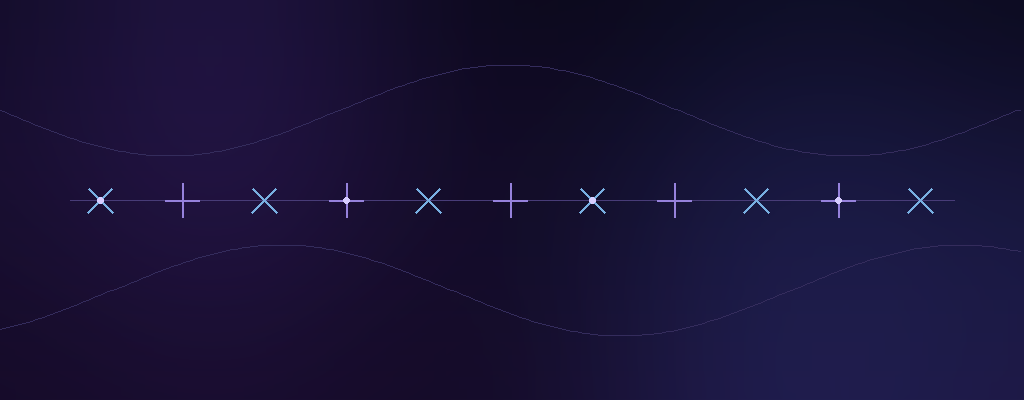
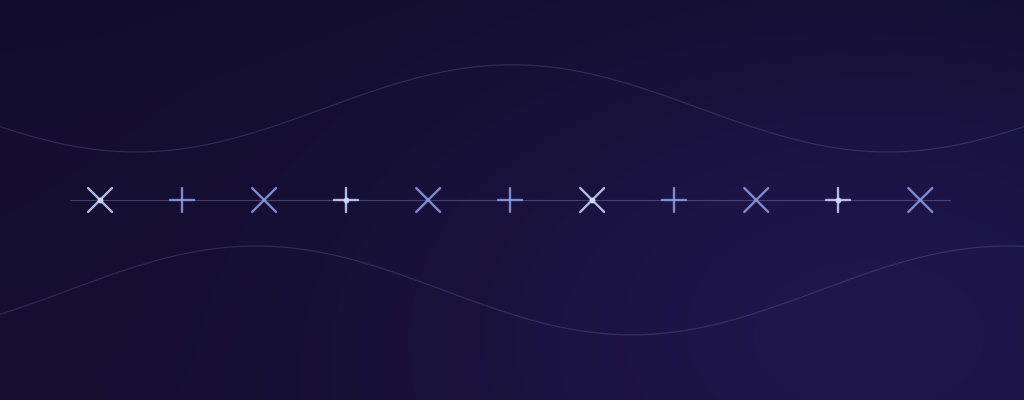
feat: Recover the three backgrounds that had no script

diff --git a/scripts/backgrounds/bb84.py b/scripts/backgrounds/bb84.py
@@ -1,0 +1,85 @@
+"""BB84: the two measurement bases, and where they agree.
+
+A photon is prepared and measured in one of two bases, drawn here as the diagonal
+and the rectilinear. The row alternates between them; a filled centre marks a
+position where the two sides chose the same basis, which is the only case whose
+bit survives into the sifted key.
+
+The two waves are the carrier, out of phase with each other, and carry no
+measurement. This is a redraw of an image made before this directory existed, so
+it differs from the committed one in small ways.
+"""
+
+from __future__ import annotations
+
+import numpy as np
+
+from palette import DPI, HEIGHT, WIDTH, canvas, ground  # noqa: F401
+
+SYMBOLS = 11
+FIRST, STEP = 0.0977, 0.0801        # centres, matching the committed image
+AXIS = 0.5
+AXIS_FROM, AXIS_TO = 0.068, 0.928
+
+# A basis agrees with the other side every third position.
+AGREES = 3
+
+ARM = 0.0117                        # half a symbol's width, in figure units
+ASPECT = WIDTH / HEIGHT             # so a diagonal arm is drawn at 45 degrees
+
+LINE = "#8fa0e8"
+BRIGHT = "#cdd6ff"
+CARRIER = "#b9c4f0"
+
+
+def diagonal(axes, x: float, colour: str) -> None:
+    dy = ARM * ASPECT
+    for sign in (1, -1):
+        axes.plot([x - ARM, x + ARM], [AXIS - sign * dy, AXIS + sign * dy],
+                  color=colour, lw=1.7, alpha=0.85, solid_capstyle="round", zorder=4)
+
+
+def rectilinear(axes, x: float, colour: str) -> None:
+    dy = ARM * ASPECT
+    axes.plot([x - ARM, x + ARM], [AXIS, AXIS], color=colour, lw=1.7, alpha=0.85,
+              solid_capstyle="round", zorder=4)
+    axes.plot([x, x], [AXIS - dy, AXIS + dy], color=colour, lw=1.7, alpha=0.85,
+              solid_capstyle="round", zorder=4)
+
+
+PERIOD = 0.734
+
+
+def carrier(axes, centre: float, amplitude: float, crest: float) -> None:
+    """One wave, at its highest where `crest` says."""
+    x = np.linspace(0, 1, 400)
+    y = centre + amplitude * np.cos(2 * np.pi * (x - crest) / PERIOD)
+    axes.plot(x, y, color=CARRIER, lw=0.9, alpha=0.16, zorder=1)
+
+
+def main() -> None:
+    background = ground("#150e30", "#100c28", "#2a1f6b", at=(0.88, 0.78), strength=0.30)
+    figure, axes, target = canvas(background, "bb84-bg")
+
+    # Centre, amplitude and crest read off the image this redraws: the upper wave
+    # is highest at the middle, the lower one a quarter of the way in.
+    carrier(axes, 0.729, 0.109, crest=0.500)
+    carrier(axes, 0.274, 0.111, crest=0.250)
+
+    axes.plot([AXIS_FROM, AXIS_TO], [AXIS, AXIS], color=LINE, lw=0.8, alpha=0.35,
+              zorder=2)
+
+    for index in range(SYMBOLS):
+        x = FIRST + index * STEP
+        agrees = index % AGREES == 0
+        colour = BRIGHT if agrees else LINE
+        (diagonal if index % 2 == 0 else rectilinear)(axes, x, colour)
+        if agrees:
+            axes.plot(x, AXIS, "o", ms=3.2, color=BRIGHT, alpha=0.95, zorder=5)
+
+    figure.savefig(target, dpi=DPI, facecolor="#150e30")
+    print(target)
+
+
+if __name__ == "__main__":
+    main()

diff --git a/scripts/backgrounds/nlp_irony.py b/scripts/backgrounds/nlp_irony.py
@@ -1,0 +1,72 @@
+"""NLP irony head: how far apart the two classes' scores are.
+
+Two cumulative distributions of the ironic probability, one per true class. The
+upper curve is the non-ironic tweets, which the head sends to low scores early;
+the lower one is the ironic tweets, which it spreads across the range. The gap
+between them at a given score is the separation any threshold has to work with,
+and the dashed rule is where the operating point cuts.
+
+The curves are traced from the image this redraws rather than recomputed. The
+served graph on the official test split produces the same two shapes but not the
+same numbers, so the figure is a recovery of the picture and not of the run.
+"""
+
+from __future__ import annotations
+
+import numpy as np
+
+from palette import DPI, HEIGHT, WIDTH, canvas, ground
+
+LEFT, RIGHT = 85 / WIDTH, 930 / WIDTH
+BASE = 1 - 332 / HEIGHT
+TOP = 1 - 58 / HEIGHT
+CUT = 0.847                      # where the operating point falls, as a fraction
+
+# (position across, cumulative fraction), read off the committed image.
+NON_IRONIC = [(0.000, 0.007), (0.183, 0.434), (0.254, 0.679), (0.373, 0.810),
+              (0.491, 0.945), (0.728, 0.982), (1.000, 1.000)]
+IRONIC = [(0.000, 0.007), (0.254, 0.084), (0.373, 0.172), (0.491, 0.387),
+          (0.609, 0.591), (0.728, 0.810), (0.846, 0.938), (1.000, 0.993)]
+
+EARLY = "#2d877d"
+LATE = "#804f59"
+RULE = "#93a3a7"
+AXIS = "#3d5a61"
+
+
+def smooth(anchors: list[tuple[float, float]]) -> tuple[np.ndarray, np.ndarray]:
+    """A curve through the anchors, rounded so the joins do not read as corners."""
+    grid = np.linspace(0, 1, 600)
+    raw = np.interp(grid, [a for a, _ in anchors], [b for _, b in anchors])
+    window = np.hanning(61)
+    window /= window.sum()
+    padded = np.pad(raw, 30, mode="edge")
+    return grid, np.convolve(padded, window, mode="valid")
+
+
+def draw(axes, anchors: list[tuple[float, float]], colour: str) -> None:
+    across, fraction = smooth(anchors)
+    axes.plot(
+        LEFT + (RIGHT - LEFT) * across,
+        BASE + (TOP - BASE) * fraction,
+        color=colour, lw=2.4, alpha=0.95, solid_capstyle="round", zorder=3,
+    )
+
+
+def main() -> None:
+    background = ground("#0d2b31", "#0a1820", "#12525c", at=(0.22, 0.88), strength=0.20)
+    figure, axes, target = canvas(background, "nlp-irony-bg")
+
+    axes.plot([LEFT, RIGHT], [BASE, BASE], color=AXIS, lw=1.0, alpha=0.75, zorder=2)
+    axes.plot([LEFT, RIGHT], [BASE + (TOP - BASE) * CUT] * 2, color=RULE, lw=1.6,
+              alpha=0.90, linestyle=(0, (6, 5)), zorder=4)
+
+    draw(axes, IRONIC, LATE)
+    draw(axes, NON_IRONIC, EARLY)
+
+    figure.savefig(target, dpi=DPI, facecolor="#0d2b31")
+    print(target)
+
+
+if __name__ == "__main__":
+    main()

diff --git a/scripts/backgrounds/credit_risk.py b/scripts/backgrounds/credit_risk.py
@@ -1,0 +1,70 @@
+"""Credit Risk: the distribution of scores, cut at the operating point.
+
+One histogram of predicted default probability, coloured by the side of the
+decision threshold each bar falls on: approved to the left, rejected to the right.
+The threshold is the one the cost sweep chose rather than the 0.5 default, which
+is why the cut sits left of the mode's tail rather than in the middle.
+
+The heights are read off the image this redraws, not recomputed. The run that
+produced them is gone, and the current artifact's distribution over this dataset
+does not reproduce them: the closest subset, the applicants who did not default,
+correlates at 0.87. Holding the numbers here and saying so is the honest form of a
+redraw.
+"""
+
+from __future__ import annotations
+
+import numpy as np
+from matplotlib.patches import Rectangle
+
+from palette import DPI, HEIGHT, WIDTH, canvas, ground
+
+# Bar heights as a fraction of the tallest, measured off the committed image.
+HEIGHTS = [0.471, 0.764, 0.977, 1.000, 0.810, 0.534, 0.293, 0.155, 0.109,
+           0.115, 0.149, 0.184, 0.207, 0.218, 0.213, 0.190, 0.155, 0.121,
+           0.080, 0.052, 0.029, 0.017]
+APPROVED = 9                      # bars left of the threshold
+
+FIRST, PITCH = 111 / WIDTH, 38.2 / WIDTH
+BAR = 27 / WIDTH
+BASE = 1 - 318 / HEIGHT
+TALLEST = 174 / HEIGHT            # the tallest bar, in figure units
+CUT = 444 / WIDTH
+
+# This image predates the shared accents and keeps the teal and rose it was drawn
+# with; recolouring it would change the thing being recovered.
+LEFT = "#1a504b"
+RIGHT = "#4c3338"
+RULE = "#dfe8ea"
+CARRIER = "#a8ccd0"
+
+
+def main() -> None:
+    background = ground("#0d2b31", "#0a1820", "#12525c", at=(0.22, 0.88), strength=0.20)
+    figure, axes, target = canvas(background, "credit-risk-bg")
+
+    x = np.linspace(0, 1, 400)
+    # Centre, amplitude, crest and period read off the image this redraws.
+    wave = 1 - (91 - 25 * np.cos(2 * np.pi * (x - 0.598) / 0.797)) / HEIGHT
+    axes.plot(x, wave, color=CARRIER, lw=0.9, alpha=0.22, zorder=1)
+
+    axes.plot([80 / WIDTH, 940 / WIDTH], [BASE, BASE], color=RULE, lw=0.9,
+              alpha=0.35, zorder=2)
+
+    for index, height in enumerate(HEIGHTS):
+        centre = FIRST + index * PITCH
+        axes.add_patch(Rectangle(
+            (centre - BAR / 2, BASE), BAR, height * TALLEST,
+            facecolor=LEFT if index < APPROVED else RIGHT,
+            edgecolor="none", zorder=3,
+        ))
+
+    axes.plot([CUT, CUT], [BASE, BASE + 0.56], color=RULE, lw=1.4, alpha=0.85,
+              linestyle=(0, (5, 4)), zorder=4)
+
+    figure.savefig(target, dpi=DPI, facecolor="#0d2b31")
+    print(target)
+
+
+if __name__ == "__main__":
+    main()
